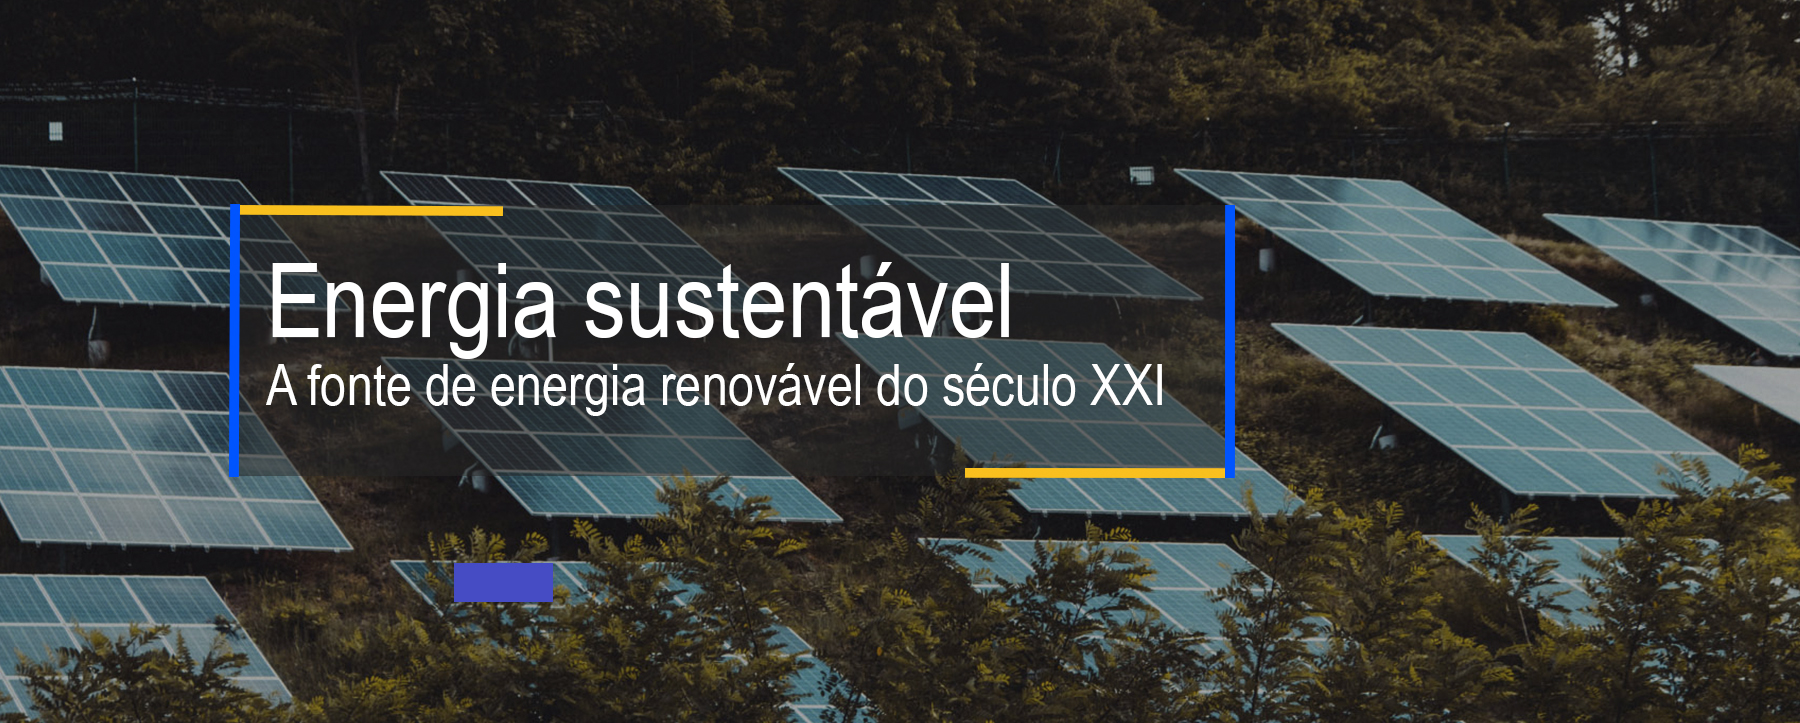
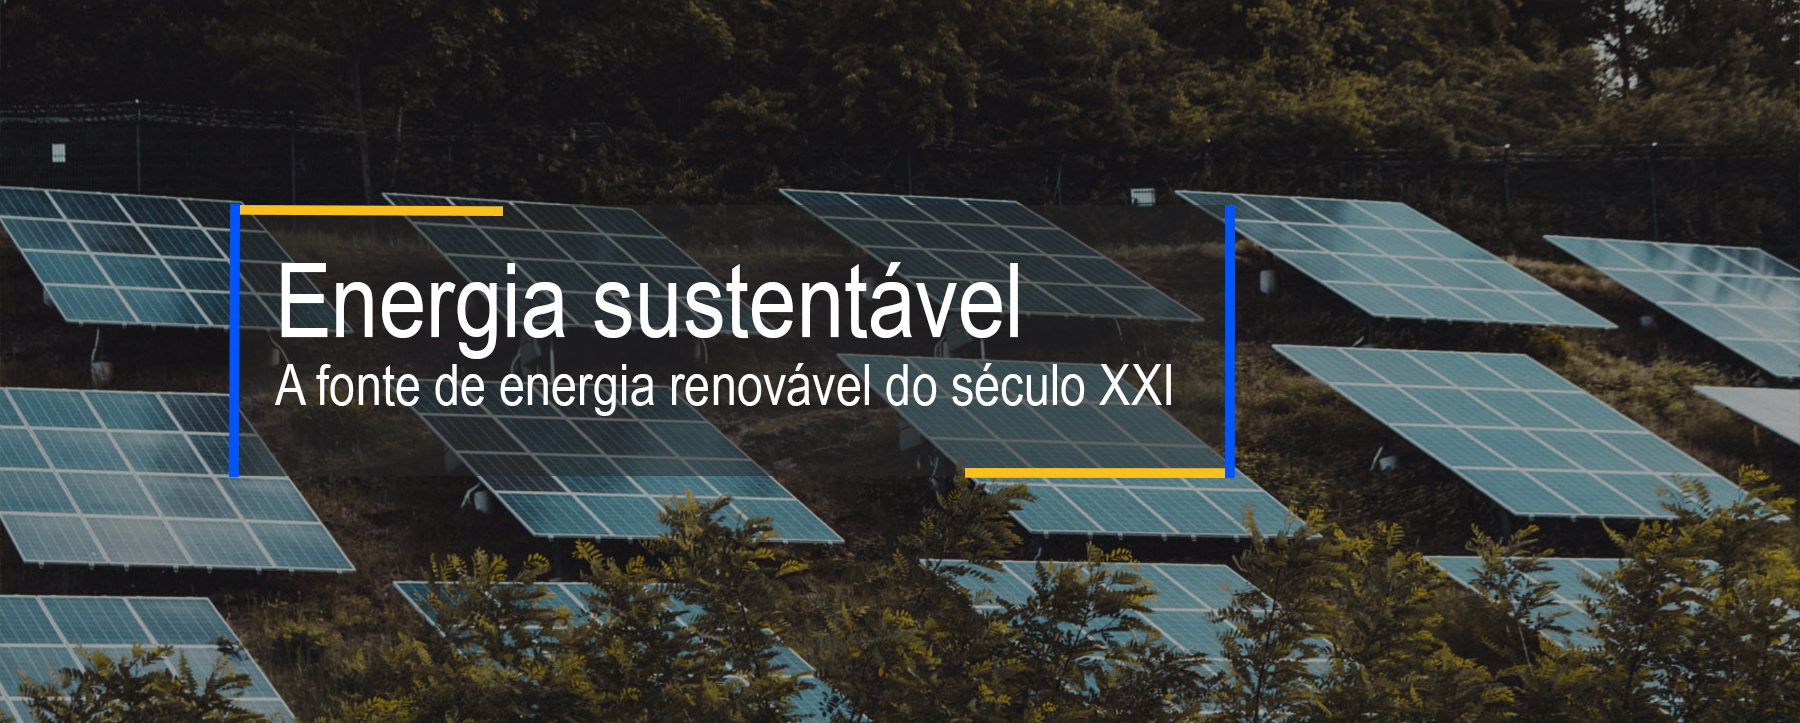
Ajustes
Código mais legível e ajustes gerais

diff --git a/Paginas/Index.html b/Paginas/Index.html
@@ -13,7 +13,7 @@
 	</head>
 
 		<body class="fundo">
-
+			<!--Nav bar-->
 			<div class="topo">
 				<ul class="nav">
 					<li class="diferentona">
@@ -27,7 +27,7 @@
 					</li>
 				</ul>
 	    	</div>
-
+	    	<!--Conteudo-->
 	        <div class="conteudo">
 	
 	        	    <div class ="bodi">
@@ -69,22 +69,24 @@
 	        	}, 6000);
 	        	</script>
 
-               <div id="ancora">
-	        	<div class="sobre">
-	        		<div class="texto" id="bloc1">
-	        	 	    <h1>Sobre nós</h1>
-	        	 	    <hr/>	        	 	
-	 					<p>A Eclipse oferece aos clientes uma solução sustentável de geração de energia. Com uma equipe qualificada, disponibiliza serviços de consultoria, projetos e instalação de sistemas fotovoltaicos. Busca trabalhar em harmonia com atitudes responsáveis e sustentáveis orientando seus clientes como explorar o potencial energético de suas residências e instalações comerciais.</p>
-                   		 <p>Com os menores preços em Sistemas Fotovoltaicos instalados, asseguramos a você uma forma ambientalmente correta de consumir energia elétrica, e até 95% de economia na sua conta de luz.</p>
-                   	</div>
-                   	<img id=bloc2 src="../Imagens/nos.jpg">
-               </div>               
-           </div>
-
+                <div id="ancora">
+                	<br/>
+                	<!--Sobre-->
+	        	    <div class="sobre">
+	        		    <div class="texto" id="bloc1">
+	        	 	      <h1>Sobre nós</h1>
+	        	 	      <hr/>	        	 	
+	 					  <p>A Eclipse oferece aos clientes uma solução sustentável de geração de energia. Com uma equipe qualificada, disponibiliza serviços de consultoria, projetos e instalação de sistemas fotovoltaicos. Busca trabalhar em harmonia com atitudes responsáveis e sustentáveis orientando seus clientes como explorar o potencial energético de suas residências e instalações comerciais.</p>
+                   		  <p>Com os menores preços em Sistemas Fotovoltaicos instalados, asseguramos a você uma forma ambientalmente correta de consumir energia elétrica, e até 95% de economia na sua conta de luz.</p>
+                        </div>
+                   	    <img id=bloc2 src="../Imagens/nos.jpg">
+                    </div>               
+                </div>
+          <!--Aviso em laranja-->
          <div class="aviso">
            <img id=bloc2 src="../Imagens/eco.png">
          </div>
-
+         <!--Vantagens-->
          <div id="ancora2">
          	<div class="vantagens">
 	            <div class="texto" id="bloc1">
@@ -95,8 +97,9 @@
 				 <img src="../Imagens/Opre2.png">  	 	              	 	
               </div>
             </div> 	 
-        </div>
-	   <footer class="main-footer">
+         </div>
+         <!--Rodapé-->
+	      <footer class="main-footer">
 	    	  	Contatos: <br>
 	    	  	<strong>Email:</strong> Eclipse@ambiente.com <br/>
    				<strong>Copyright &copy; 2022 Eclipse</a>.</strong>
@@ -104,8 +107,7 @@
     			<div class="float-right d-none d-sm-inline-block">
     			 <b>Versão</b> 0.0.1
     			</div>    		
-      </footer>
+          </footer>
 
-</body>
-
+        </body>
 </html>

diff --git a/Estilo/Style.css b/Estilo/Style.css
@@ -13,7 +13,7 @@ body{
   background-color: #191967;
   background-attachment: fixed;
 }
-/*-Menu do topo-*/
+/*-Menu do topo, nav bar-*/
 div.topo{
 	display: block;
 	background-color: #1286E6;
@@ -36,7 +36,6 @@ div.topo li.diferentona{
 	text-decoration: none;
 	color: black;
 }
-
 div.topo h1{
   /*O primeiro é altura o segundo é largura*/
   padding: 2.25rem 2rem;
@@ -44,8 +43,8 @@ div.topo h1{
 div.topo li a:hover{  
   background-color: #78BBF3;
   box-shadow: 0 0 5px 2px rgba(0, 0, 0, 0.2);
+  transition: 0.4s;
 }
-
 div.topo li a#info:hover{  
   background-color: #8C9FFA;
   box-shadow: 0 0 5px 2px rgba(0, 0, 0, 0.2);
@@ -59,6 +58,7 @@ span.ativada h4{
 	word-spacing:-2px;
 	overflow: hidden;
 }
+/*imagem animação*/
 .bodi{	
 	background-color: rgba(149, 175, 213, 0.5);
 	margin-top: -180px;
@@ -70,13 +70,13 @@ span.ativada h4{
 }
 .slider{
 	width: 100%;
-	height: 500px;
+	height: 550px;
 	overflow: hidden;
+	box-shadow: 0px 7px 5px 1px rgba(0, 0, 0, 0.2);
 }
-
 .slides{
 width: 500%;
-height: 500px;
+height: 550px;
 display: flex;
 }
 .slides input{
@@ -86,17 +86,15 @@ display: none;
 	width: 20%;
 	transition: 2s;
 }
-
 .slide img{
 	width: 100%;
-	height: 500px;
+	height: 550px;
 }
-
 .navigation-manual{
 	position: absolute;
 	display: flex;
 	width: 83%;
-	margin-top: 470px;
+	margin-top: 520px;
 	margin-top: flex;
 	justify-content: center;
 }
@@ -107,31 +105,25 @@ display: none;
 	cursor: pointer;
 	transition: 1s;
 }
-
 .manual-bnt:not(:last-child){
 	margin-right: 10px;
 }
-
 .manual-bnt:hover{
 	background: #40D3DC;
 }
-
 #radio1:checked ~ .first{
 	margin-left: 0%; 
 }
-
 #radio2:checked ~ .first{
 	margin-left: -20%; 
 }
-
 .navigation-auto{
 	position: absolute;
 	display: flex;
 	width: 83%;
 	justify-content: center;
-	margin-top: 470px;
+	margin-top: 520px;
 }
-
 .navigation-auto div{
 	border: 2px solid #40D3DC;
 	padding: 5px;
@@ -141,14 +133,13 @@ display: none;
 .navigation-auto div:not(:last-child){
 margin-right: 10px;
 }
-
 #radio1:checked ~ .navigation-auto .auto-bnt1{
 	background: #40D3DC;
 }
-
 #radio2:checked ~ .navigation-auto .auto-bnt2{
 	background: #40D3DC;
 }
+/* conteudo-sobre */
 div.sobre{
 	background-color: rgba(149, 175, 213, 0.5);
 	 text-align:center;
@@ -159,32 +150,32 @@ div.sobre img{
  padding-left: 10%;
  padding-bottom: 6.5%;
 }
-
 div.texto {
 	padding-left: 10%;
 	text-align: justify;
 	width: 50%;
 	  font-size: 20px;
 }
-
-.verde{
-	color: green;
-}
+/*conteudo vantagens*/
 .aviso img{
 	width: 100%;
 	padding-bottom: 2%;
 }
-
 .vantagemfot img{
 	width: 92%;
 	padding-left: 7%;
 }
-
+/*css extra*/
+.verde{
+	color: green;
+}
+/*linha amarela*/
 hr{
   border-bottom: 5px solid #F8BA21;
   width:20%;
   opacity: .8;
 }
+/* Rodapé */
 footer{
   background-color: white;
   padding: 10px 20px 10px 40px;
